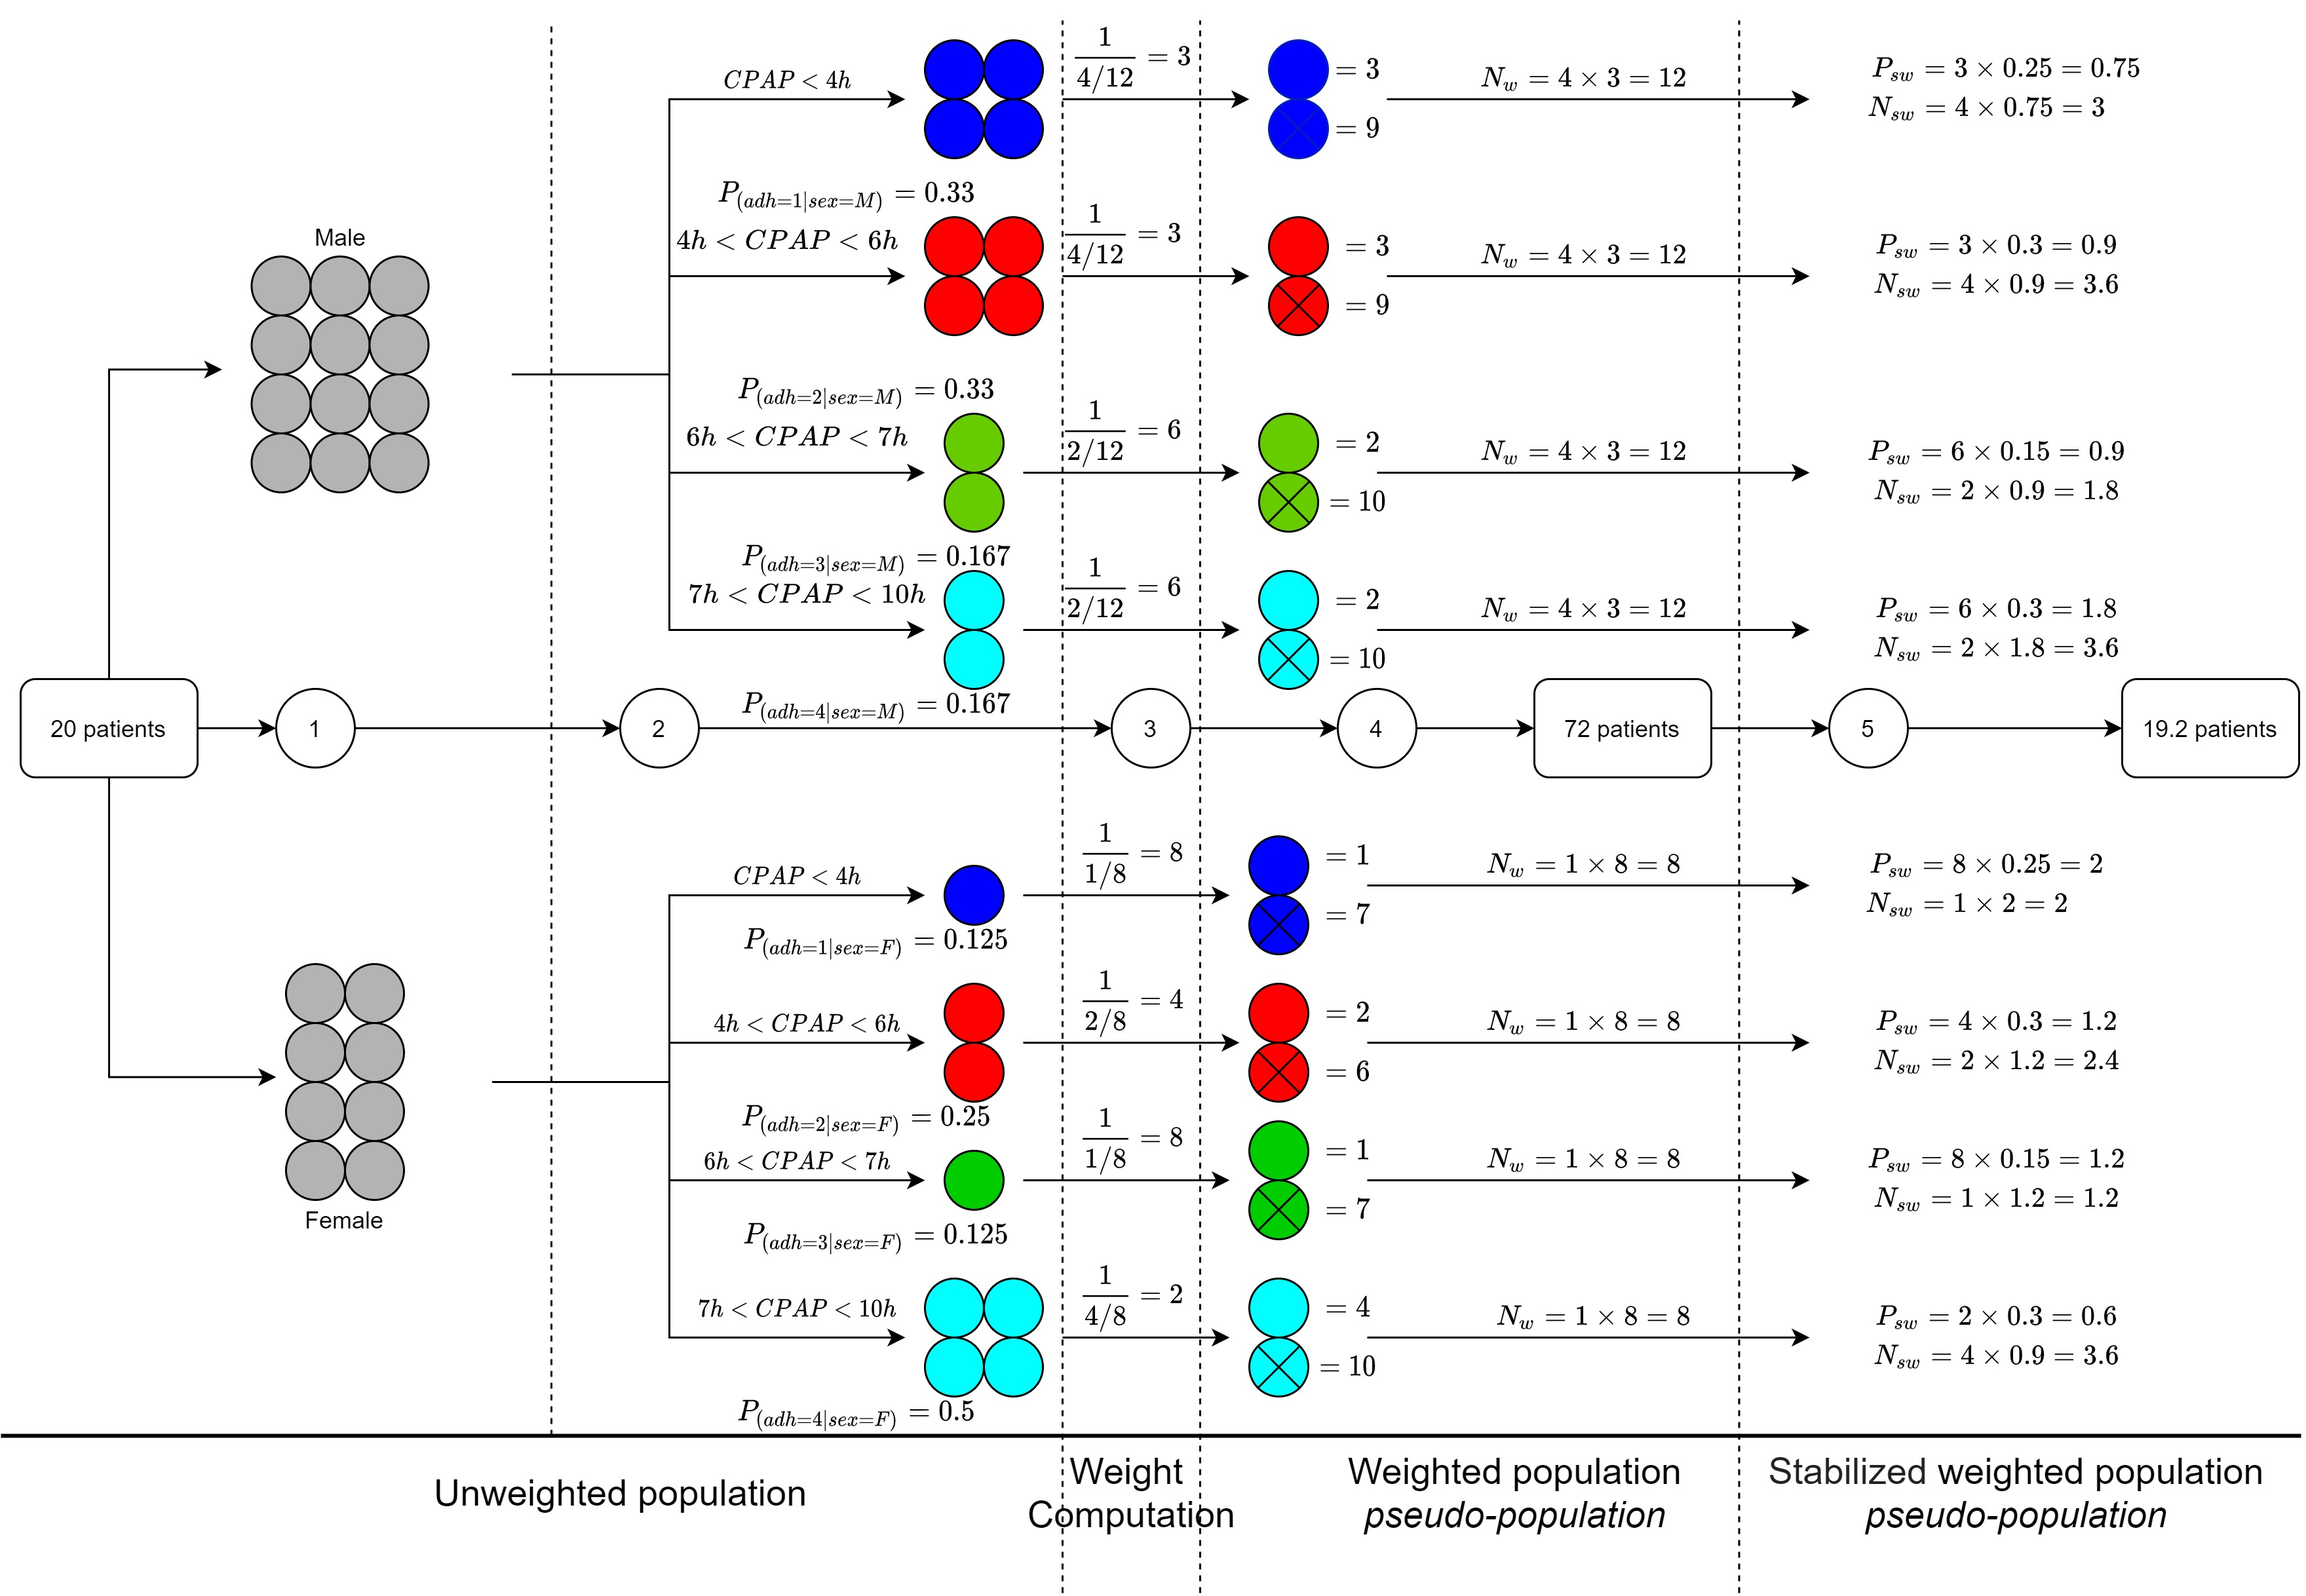
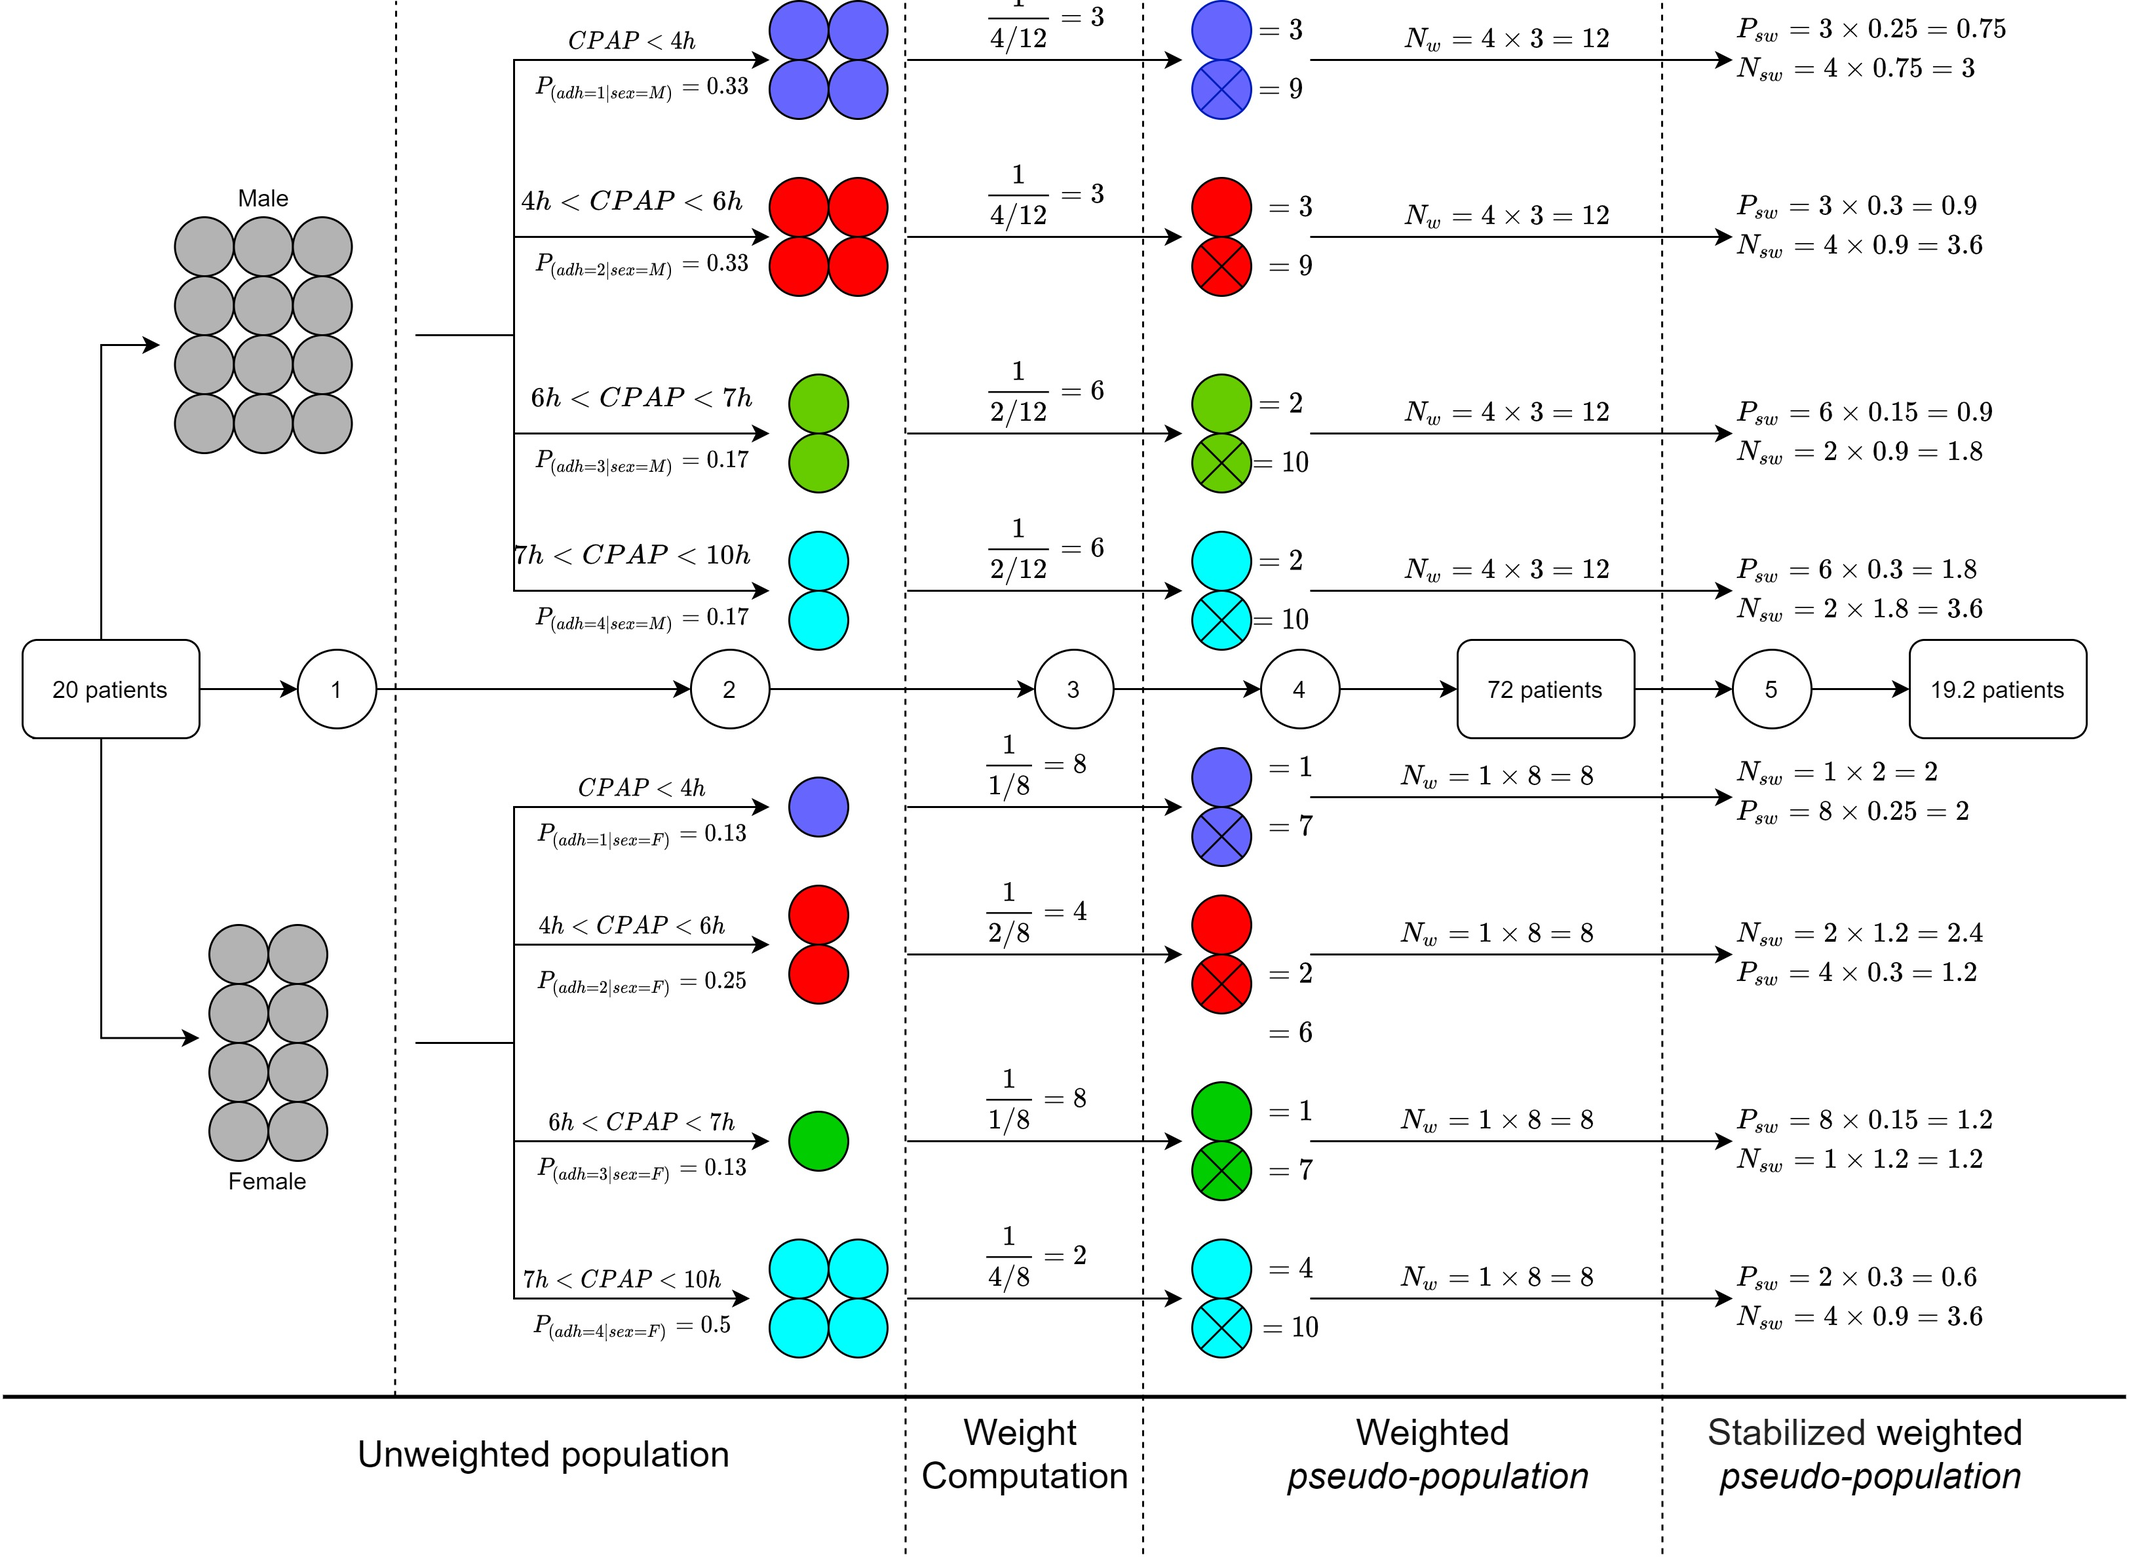
modifications d'axe fig2 + update fig 1 + remise en forme mat supp

diff --git a/figure_papier/table_iptw.tex b/figure_papier/table_iptw.tex
@@ -14,27 +14,7 @@ Adherence group & Mean & Minimum & Maximum\\
 \cellcolor{gray!6}{6-7 h} & \cellcolor{gray!6}{4.6(4.4; 4.8)} & \cellcolor{gray!6}{1.8(1.0; 2.5)} & \cellcolor{gray!6}{29.4(15.4; 47.3)}\\
 7-10 h & 5.4(5.2; 5.7) & 1.9(1.1; 2.4) & 47.0(23.1; 82.6)\\
 \bottomrule
-\multicolumn{4}{l}{\textsuperscript{*} Data are presented as mean (5th percentile; 95th percentile) of bootstrap iterations}\\
-\end{tabular}}
-\end{table}
-\clearpage
-\begin{table}[H]
-
-\caption{\label{tab:weight_truncations}Weight truncations}
-\centering
-\resizebox{\linewidth}{!}{
-\begin{tabular}[t]{cccc}
-\toprule
-Truncations & Mean & Minimum & Maximum\\
-\midrule
-\cellcolor{gray!6}{(0; 1)} & \cellcolor{gray!6}{4.0(4.0; 4.0)} & \cellcolor{gray!6}{1.2(1.0; 1.3)} & \cellcolor{gray!6}{48.2(29.9; 75.0)}\\
-(0.01; 0.99) & 4.0(4.0; 4.0) & 1.9(1.8; 1.9) & 11.8(11.1; 12.6)\\
-\cellcolor{gray!6}{(0.05; 0.95)} & \cellcolor{gray!6}{3.9(3.9; 3.9)} & \cellcolor{gray!6}{2.1(2.1; 2.2)} & \cellcolor{gray!6}{7.8(7.5; 8.0)}\\
-(0.1; 0.9) & 3.8(3.8; 3.8) & 2.3(2.2; 2.3) & 6.4(6.3; 6.5)\\
-\cellcolor{gray!6}{(0.25; 0.75)} & \cellcolor{gray!6}{3.6(3.6; 3.6)} & \cellcolor{gray!6}{2.6(2.5; 2.7)} & \cellcolor{gray!6}{4.7(4.7; 4.8)}\\
-(0.5; 0.5) & 3.4(3.4; 3.5) & 3.4(3.4; 3.5) & 3.4(3.4; 3.5)\\
-\bottomrule
-\multicolumn{4}{l}{\textsuperscript{*} Data are presented as mean ( 5th percentile; 95th percentile) of bootstrap iterations}\\
+\multicolumn{4}{l}{\textsuperscript{*} Data are presented as mean (95\% confidence interval) of bootstrap iterations}\\
 \end{tabular}}
 \end{table}
 \clearpage
